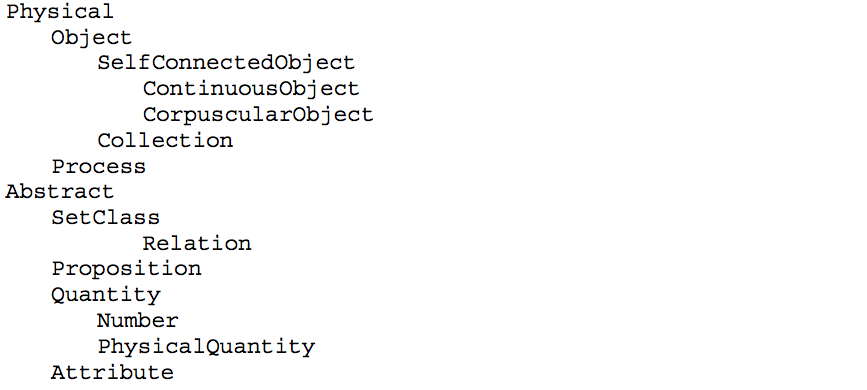
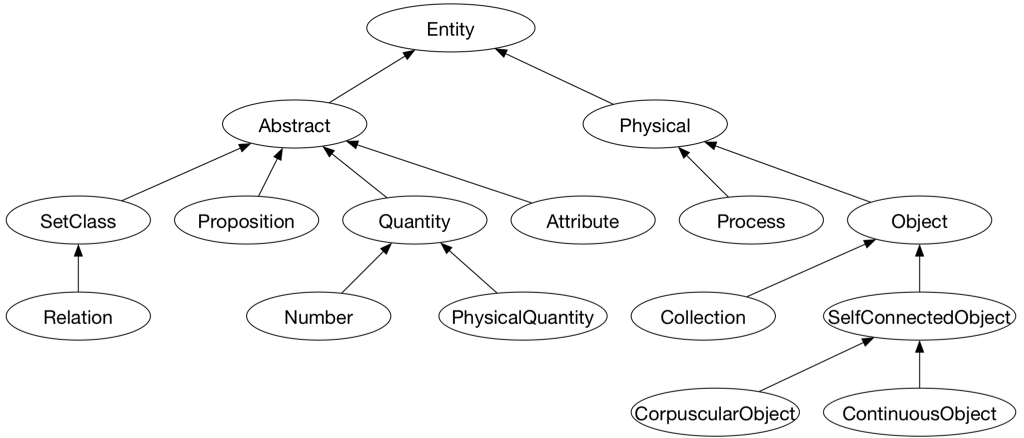
Changed to new figures

diff --git a/Chapters/Theory.tex b/Chapters/Theory.tex
@@ -217,11 +217,13 @@ in addition to the properties it has which distinguishes it from the concept\cit
 
 This has some basis in psycholexicologic research.
 \citet{Collins1969} showed that subjects used less time to say that a concept had some property when that property
-was viewed as more prototypical for concept, than if it was seen a property of some more general concept (see figure \ref{MemoryStructure}, page \pageref{MemoryStructure}).
-A subject would for example use less time establishing that a shark is dangerous, a property associated with sharks;
-than they would establishing that it had fins, a property associated with fish; or that it breaths, which is associated with all animals (see figure \ref{MemoryStructure}, page \pageref{MemoryStructure}).
+was viewed as more prototypical for concept, than if it was seen a property of some more general concept.
+Figure \ref{MemoryStructure} shows an example of such a hypothetical memory structure.
+The tests performed showed that subjects would spend less time on deciding that a shark was dangerous than that it had fins or that it breaths.
+This was in line with the hypothesis as being dangerous is more prototypical of a shark, while having fins or breathing
+is something which is associated with more general concepts.
 
-\fig{MemoryStructure}{{A hypothetical memory structure, from \protect \citet{Collins1969}}}
+\fig{MemoryStructure}{{A hypothetical memory structure, adapted from \protect \citet{Collins1969}}}
 
 Nouns in WordNet are organized in a hierarchal fashion.
 One organizational issue then is if one should organize the nouns as one, or several hierarchies.
@@ -343,7 +345,7 @@ term in the final ontology.
 In the last case the terms has overlapping meaning.
 In these cases one either kept both the terms, or picked which one to use in the merged ontology.
 
-\fig{SUMOUpper}{{The upper levels of SUMO. From \protect \citet{Niles2001}}}
+\fig{SUMOUpper}{{The upper levels of SUMO. Adapted from \protect \citet{Niles2001}}}
 
 \section{Schema.org}
 \label{schemadotorg}
